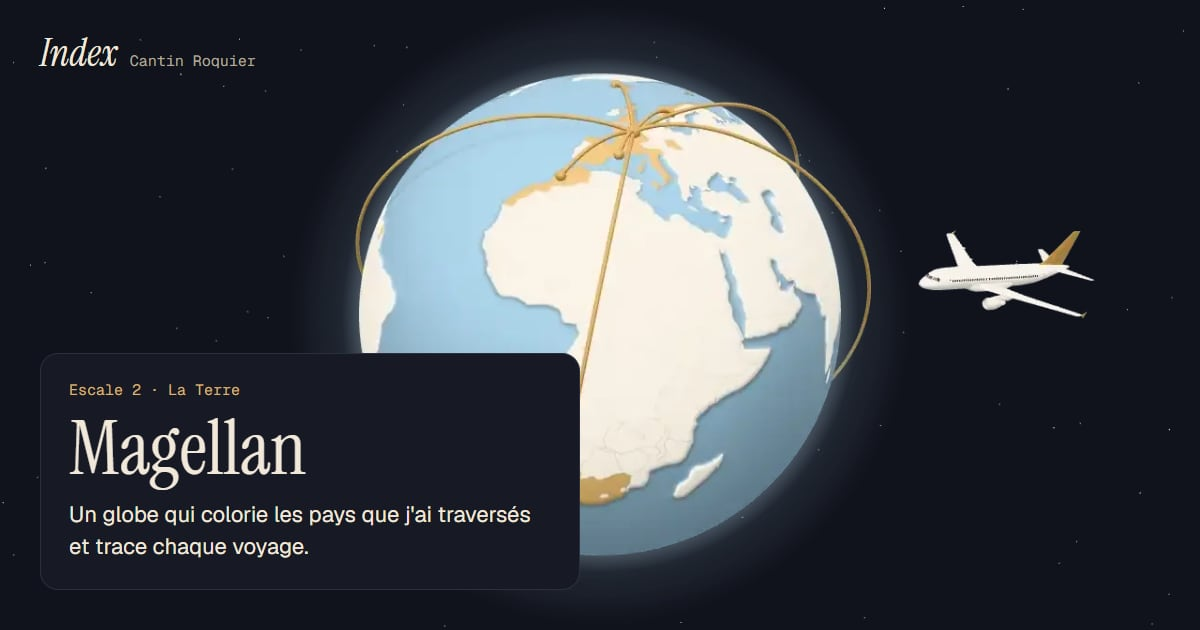
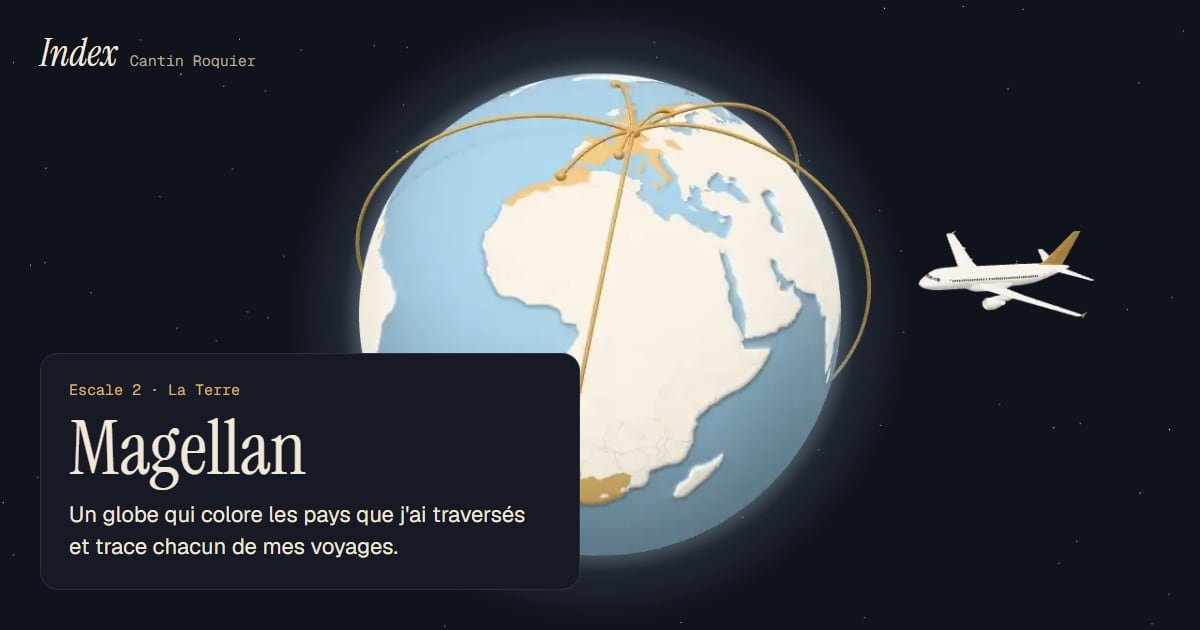
fix(portfolio): les textes choisis par Cantin (accueil, accroches, carnet, À propos)
Première passe de relecture, en français, puis traduite en anglais :
- l'accueil (« Quand un outil me manque, je le fabrique… ») et six accroches : Magellan, Hublot,
  Métro Pathfinder, Mithril, Cancionero, INDEX ;
- l'introduction du carnet (« dans l'ordre du voyage ») ;
- À propos : deux légendes de chiffres, la phrase des projets, la bande de l'alternance, les titres
  (« Mes langues », « Mes outils », « Loin du clavier ») et l'étape de 2025.
Les projets d'école et les autres sont comptés d'après leurs pastilles, et l'année du premier projet
d'après la liste : « onze », « quatre », « sept » et « 2022 » suivent les projets. Les aperçus de
partage des six fiches dont l'accroche change sont refaits.

Changed region(s): [[0.1542, 0.7841, 0.4625, 0.9048]]

diff --git a/apps/portfolio/src/data/voyage.ts b/apps/portfolio/src/data/voyage.ts
@@ -2,7 +2,7 @@
  * Le voyage : l'accueil du site, dix escales, une par projet, dont chacune mène à la suivante.
  * Ici le décor de chaque escale (sa scène, ses couleurs, le point à cliquer) et ses textes en
  * français et en anglais. Les liens (l'app, le code) et le numéro viennent de @index/projects.
- * Les textes sont des brouillons, à réécrire.
+ * Textes relus par Cantin le 10 octobre 2026 (accueil, accroches) ; Visit Match attend la sienne.
  */
 
 import type { Project } from "@index/projects";
@@ -71,21 +71,21 @@ export const STOP_TEXTS: Record<Lang, Record<string, StopText>> = {
       place: "La Terre",
       alt: "La Terre tourne : les pays de la démo de Magellan en laiton, les voyages tracés en arcs depuis Paris ; à côté, un avion de ligne attend, incliné vers elle.",
       kind: "App web et mobile · 2026 · En ligne",
-      pitch: "Un globe qui colorie les pays que j'ai traversés et trace chaque voyage.",
+      pitch: "Un globe qui colore les pays que j'ai traversés et trace chacun de mes voyages.",
       cta: "Prendre l'avion",
     },
     hublot: {
       place: "Dans l'avion",
       alt: "Dans l'avion : par le hublot, l'aile, son réacteur et son winglet de laiton, au-dessus d'une mer de nuages.",
       kind: "Robot et page web · 2026 · En ligne",
-      pitch: "Un robot surveille pour moi le prix des vols depuis Paris et me prévient dès qu'un billet passe sous mon seuil.",
+      pitch: "Je fixe mon prix, un robot surveille les vols au départ de Paris, et mon téléphone ne sonne que quand ça vaut le coup.",
       cta: "Regarder par le hublot",
     },
     "metro-pathfinder": {
       place: "Paris vu du ciel",
       alt: "Paris vu du ciel : la Seine, les toits de zinc, les lignes de métro, et le plus court chemin en laiton qu'une rame parcourt jusqu'à sa station.",
       kind: "Algorithme · 2022 · Archive",
-      pitch: "Le trajet le plus court entre deux stations du métro parisien, calculé avec Dijkstra.",
+      pitch: "Mon premier algorithme sur un graphe : le trajet le plus court entre deux stations du métro parisien.",
       cta: "Descendre à la station",
     },
     "visit-match": {
@@ -106,7 +106,7 @@ export const STOP_TEXTS: Record<Lang, Record<string, StopText>> = {
       place: "À la maison",
       alt: "À la maison : le bureau, l'ordinateur, le coffre-fort de Mithril à molette de laiton, la lampe, le petit serveur, une plante et un tapis vert sauge et, par terre, une platine.",
       kind: "Logiciel Windows · 2026",
-      pitch: "Mon coffre à mots de passe pour Windows : chiffré, sans installation, et sans cloud.",
+      pitch: "Mes mots de passe dans un seul .exe, chiffrés, jamais dans le cloud.",
       extra: "Sur l'étagère aussi : l'API REST .NET, des microservices C# écrits en TDD et lancés dans Docker (2023).",
       tag: "API REST .NET · 2023",
       cta: "Mettre un disque",
@@ -115,7 +115,7 @@ export const STOP_TEXTS: Record<Lang, Record<string, StopText>> = {
       place: "Le tourne-disque",
       alt: "Le tourne-disque : le vinyle tourne sous le bras de lecture, des notes de laiton s'envolent, certaines vers le calendrier punaisé au mur ; à côté, la pochette du disque, couleur terre cuite.",
       kind: "Application installable · 2026 · En ligne",
-      pitch: "J'apprends l'espagnol en chansons : paroles traduites, karaoké à trous, quiz, même hors ligne.",
+      pitch: "Une chanson qu'on aime, on la retient sans effort. Alors j'apprends l'espagnol en chantant.",
       cta: "Choisir la couleur du jour",
     },
     tonalli: {
@@ -129,7 +129,7 @@ export const STOP_TEXTS: Record<Lang, Record<string, StopText>> = {
       place: "Les dossiers",
       alt: "Les dossiers : celui du dessus est ouvert sur sa page de titre et sur le sommaire des onze projets, de 001 à 011 ; un stylo de laiton parcourt la liste ; dessous, les onglets des autres dossiers, aux couleurs des escales.",
       kind: "Monorepo et portfolio · 2026 · En cours",
-      pitch: "Mes projets réunis dans un seul dépôt, gardés éveillés par des robots, et présentés ici, escale par escale.",
+      pitch: "Un seul dépôt pour tous mes projets, des robots pour qu'aucun ne s'endorme, et ce voyage pour les montrer.",
       cta: "Tout feuilleter",
       noApp: "Vous y êtes : c'est ce site",
     },
@@ -146,21 +146,21 @@ export const STOP_TEXTS: Record<Lang, Record<string, StopText>> = {
       place: "The Earth",
       alt: "The Earth turns: the countries of the Magellan demo in brass, trips drawn as arcs from Paris; nearby, an airliner waits, banking towards it.",
       kind: "Web and mobile app · 2026 · Live",
-      pitch: "A globe that colours in the countries I've travelled through and traces each trip.",
+      pitch: "A globe that colours in the countries I've travelled through and traces each of my trips.",
       cta: "Board the plane",
     },
     hublot: {
       place: "On the plane",
       alt: "On the plane: through the window, the wing, its engine and brass winglet above a sea of clouds.",
       kind: "Bot and web page · 2026 · Live",
-      pitch: "A bot watches flight prices from Paris for me and tells me as soon as a ticket drops below my threshold.",
+      pitch: "I set my price, a bot watches flights from Paris, and my phone only rings when it's worth it.",
       cta: "Look out of the window",
     },
     "metro-pathfinder": {
       place: "Paris from above",
       alt: "Paris from above: the Seine, the zinc roofs, the metro lines, and the shortest route in brass, which a train follows to its station.",
       kind: "Algorithm · 2022 · Archive",
-      pitch: "The shortest route between two Paris metro stations, computed with Dijkstra.",
+      pitch: "My first graph algorithm: the shortest route between two Paris metro stations.",
       cta: "Get off at the station",
     },
     "visit-match": {
@@ -181,7 +181,7 @@ export const STOP_TEXTS: Record<Lang, Record<string, StopText>> = {
       place: "At home",
       alt: "At home: the desk, the computer, Mithril's safe with its brass dial, the lamp, the small server, a plant, a sage-green rug and, on the floor, a record player.",
       kind: "Windows software · 2026",
-      pitch: "My password vault for Windows: encrypted, nothing to install, no cloud.",
+      pitch: "My passwords in a single .exe, encrypted, never in the cloud.",
       extra: "Also on the shelf: the .NET REST API, C# microservices written test-first and run in Docker (2023).",
       tag: ".NET REST API · 2023",
       cta: "Put on a record",
@@ -190,7 +190,7 @@ export const STOP_TEXTS: Record<Lang, Record<string, StopText>> = {
       place: "The record player",
       alt: "The record player: the vinyl spins under the tonearm, brass notes float up, some towards the calendar pinned on the wall; beside it, the terracotta record sleeve.",
       kind: "Installable app · 2026 · Live",
-      pitch: "I'm learning Spanish through songs: translated lyrics, fill-in-the-blank karaoke, quizzes, even offline.",
+      pitch: "A song you love sticks without effort. So I'm learning Spanish by singing.",
       cta: "Pick today's colour",
     },
     tonalli: {
@@ -204,7 +204,7 @@ export const STOP_TEXTS: Record<Lang, Record<string, StopText>> = {
       place: "The folders",
       alt: "The folders: the top one lies open on its title page and on the contents of all eleven projects, from 001 to 011; a brass pen runs down the list; below, the tabs of the other folders, in the colours of the stops.",
       kind: "Monorepo and portfolio · 2026 · In progress",
-      pitch: "My projects gathered in a single repository, kept awake by bots, and shown here, stop by stop.",
+      pitch: "One repository for all my projects, bots so that none of them falls asleep, and this journey to show them.",
       cta: "Browse them all",
       noApp: "You're on it: this very site",
     },
@@ -217,7 +217,7 @@ export const VOYAGE: Record<Lang, Record<string, string>> = {
     introLabel: "Index · depuis 2022",
     introTitle: `Un voyage en ${inWords("fr", STOPS.length)} <em>escales</em>.`,
     introText:
-      "Je fabrique les outils qui me manquent. Ici, chaque projet devient un objet du décor : la planète, l'avion, le hublot, la station… Clique dessus pour passer à l'escale suivante.",
+      "Quand un outil me manque, je le fabrique. Ici, chaque projet devient un objet du décor, de la planète au tourne-disque : clique dessus et le voyage continue.",
     takeOff: "Décoller →",
     start: "Le départ",
     announce: "Escale {i} : {place}, {name}",
@@ -239,7 +239,7 @@ export const VOYAGE: Record<Lang, Record<string, string>> = {
     introLabel: "Index · since 2022",
     introTitle: `A journey in ${inWords("en", STOPS.length)} <em>stops</em>.`,
     introText:
-      "I build the tools I'm missing. Here, each project becomes part of the scenery: the planet, the plane, the window, the station… Click it to fly on to the next stop.",
+      "When I'm missing a tool, I build it. Here, each project becomes part of the scenery, from the planet to the record player: click it and the journey goes on.",
     takeOff: "Take off →",
     start: "Departure",
     announce: "Stop {i}: {place}, {name}",

diff --git a/apps/portfolio/src/data/apropos.ts b/apps/portfolio/src/data/apropos.ts
@@ -11,6 +11,11 @@
 import { projects } from "@index/projects";
 import { inWords, type Lang } from "../i18n/voyage";
 
+/** Les projets d'école (pastille « École »), les autres, faits sur mon temps libre, et l'année du premier : les textes les comptent. */
+const SCHOOL = projects.filter((p) => p.badges.includes("ecole")).length;
+const OWN = projects.length - SCHOOL;
+const SINCE = Math.min(...projects.map((p) => Number(p.started.slice(0, 4))));
+
 const built = new Date();
 /** Aujourd'hui, en année décimale. */
 export const NOW = built.getFullYear() + (built.getMonth() + (built.getDate() - 1) / 31) / 12;
@@ -134,17 +139,17 @@ export const APROPOS: Record<Lang, AproposStrings> = {
     stats: [
       ["5 ans", "d'alternance : l'école et la STIME en même temps"],
       ["3 000+", "points de vente utilisent l'app mobile à laquelle j'ai contribué en alternance"],
-      ["1 700", "magasins commandent leurs produits frais sur l'app que je développe aujourd'hui"],
-      [String(projects.length), "projets à moi, à côté : chaque escale de ce site"],
+      ["1 700", "magasins comptent sur l'app que je développe pour commander leurs produits frais"],
+      [String(projects.length), `projets à côté du travail : ${inWords("fr", SCHOOL)} en école, ${inWords("fr", OWN)} sur mon temps libre`],
     ],
     titles: {
       route: "Deux lignes, une correspondance",
-      langs: "Trois lignes parlées",
-      bag: "Six lignes de bus",
-      away: "Ce que je fais quand l'écran s'éteint",
+      langs: "Mes langues",
+      bag: "Mes outils",
+      away: "Loin du clavier",
     },
     route: {
-      band: "Cinq ans d'alternance : les deux lignes en même temps",
+      band: "Cinq ans d'alternance, sur les deux lignes à la fois",
       codes: ["É", "S"],
       stations: {
         dut: ["DUT Informatique", "UPEC · 2019"],
@@ -173,11 +178,11 @@ export const APROPOS: Record<Lang, AproposStrings> = {
         items: [
           ["2020 – 2021", "Développeur frontend, en alternance", "", "Une application web mobile-first de flex office.", "work"],
           ["2020 – 2025", "Développeur fullstack, en alternance", "", "L'app mobile de plus de 3 000 points de vente, deux apps React pour le SAV et leur BFF Node.js.", "work"],
-          ["2025 – 2026", "Développeur mobile, ingénieur diplômé", "", "Une app React Native de pilotage pour les adhérents Intermarché.", "work"],
+          ["2025 – 2026", "Développeur mobile, ingénieur diplômé", "", "Une app React Native pour que chaque adhérent Intermarché suive les chiffres de son magasin.", "work"],
           ["Depuis 2026", "Développeur fullstack mobile", "", "L'app React Native / Expo de commande des produits frais de 1 700 magasins, et son back-office React.", "work"],
         ],
       },
-      projects: `Et en parallèle, ${inWords("fr", projects.length)} projets à moi depuis 2022 : chaque escale de ce site, et le site lui-même.`,
+      projects: `À côté, ${inWords("fr", projects.length)} projets depuis ${SINCE}, ${inWords("fr", SCHOOL)} en école et ${inWords("fr", OWN)} sur mon temps libre. Tous sont dans le voyage, ce site compris.`,
       projectsLink: "Revoir le voyage →",
     },
     langs: [
@@ -230,17 +235,17 @@ export const APROPOS: Record<Lang, AproposStrings> = {
     stats: [
       ["5 years", "of work-study: school and STIME at the same time"],
       ["3,000+", "stores use the mobile app I worked on as an apprentice"],
-      ["1,700", "stores order their fresh products on the app I build today"],
-      [String(projects.length), "projects of my own, on the side: every stop on this site"],
+      ["1,700", "stores rely on the app I build to order their fresh products"],
+      [String(projects.length), `projects alongside work: ${inWords("en", SCHOOL)} at school, ${inWords("en", OWN)} in my free time`],
     ],
     titles: {
       route: "Two lines, one interchange",
-      langs: "Three spoken lines",
-      bag: "Six bus routes",
-      away: "What I do when the screen goes dark",
+      langs: "My languages",
+      bag: "My tools",
+      away: "Away from the keyboard",
     },
     route: {
-      band: "Five years of work-study: both lines at the same time",
+      band: "Five years of work-study, on both lines at once",
       codes: ["S", "W"],
       stations: {
         dut: ["Technical degree", "UPEC · 2019"],
@@ -269,11 +274,11 @@ export const APROPOS: Record<Lang, AproposStrings> = {
         items: [
           ["2020 – 2021", "Front-end developer, work-study", "", "A mobile-first flex-office web app.", "work"],
           ["2020 – 2025", "Full-stack developer, work-study", "", "The mobile app of over 3,000 stores, two React apps for after-sales support and their Node.js back-for-front.", "work"],
-          ["2025 – 2026", "Mobile developer, graduate engineer", "", "A React Native app for Intermarché store owners to track their store's performance.", "work"],
+          ["2025 – 2026", "Mobile developer, graduate engineer", "", "A React Native app so that every Intermarché store owner can follow their store's figures.", "work"],
           ["Since 2026", "Full-stack mobile developer", "", "The React Native / Expo app 1,700 stores use to order fresh products, and its React back office.", "work"],
         ],
       },
-      projects: `And alongside, ${inWords("en", projects.length)} projects of my own since 2022: every stop on this site, and the site itself.`,
+      projects: `Alongside, ${inWords("en", projects.length)} projects since ${SINCE}, ${inWords("en", SCHOOL)} at school and ${inWords("en", OWN)} in my free time. They are all on the journey, this site included.`,
       projectsLink: "Back to the journey →",
     },
     langs: [

diff --git a/apps/portfolio/src/data/carnet.ts b/apps/portfolio/src/data/carnet.ts
@@ -71,7 +71,7 @@ export const CARNET: Record<Lang, CarnetStrings> = {
     pageTitle: "Le carnet de voyage",
     description: `Les ${inWords("fr", projects.length)} projets de Cantin Roquier, escale par escale : chaque projet mène à sa fiche, et chaque app s'ouvre d'ici.`,
     title: "Le carnet de <em>voyage</em>",
-    intro: `Les ${inWords("fr", projects.length)} projets, escale par escale : chacun mène à sa fiche.`,
+    intro: `Les ${inWords("fr", projects.length)} projets, dans l'ordre du voyage. Chacun mène à sa fiche.`,
     revisit: "Revoir l'escale →",
     revisitAria: "Revoir l'escale {n} : {place}",
     listAria: "Les escales du voyage",
@@ -100,7 +100,7 @@ export const CARNET: Record<Lang, CarnetStrings> = {
     pageTitle: "The travel journal",
     description: `Cantin Roquier's ${inWords("en", projects.length)} projects, stop by stop: each project leads to its page, and every app opens from here.`,
     title: "The travel <em>journal</em>",
-    intro: `All ${inWords("en", projects.length)} projects, stop by stop: each one leads to its page.`,
+    intro: `All ${inWords("en", projects.length)} projects, in the order of the journey. Each one leads to its page.`,
     revisit: "Back to the stop →",
     revisitAria: "Back to stop {n}: {place}",
     listAria: "The journey's stops",
